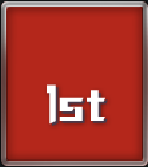
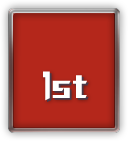
7-12/16:15

diff --git a/vueProject/static/css/main.css b/vueProject/static/css/main.css
@@ -40,7 +40,6 @@
   font-stretch: normal;
   letter-spacing: 0px;
   color: #ffffff;
-  opacity: 0.3;
 }
 
 .login {
@@ -49,7 +48,7 @@
   height: 30px;
   line-height: 6px;
   margin-top: 10px;
-  background: #0dbdbd;
+  background: #509a3c;
   border: 0;
   color: #fff;
 }
@@ -85,7 +84,6 @@
   background-color: #282c2f;
   -webkit-box-shadow: 0px 0px 8px 0px rgba(0, 0, 0, 0.8);
   box-shadow: 0px 0px 8px 0px rgba(0, 0, 0, 0.8);
-  opacity: 0.5;
   /* margin-left: 100px; */
   padding: 24px 23px;
 }
@@ -105,7 +103,6 @@
   background-color: #282c2f;
   -webkit-box-shadow: 0px 0px 8px 0px rgba(0, 0, 0, 0.8);
   box-shadow: 0px 0px 8px 0px rgba(0, 0, 0, 0.8);
-  opacity: 0.5;
 }
 
 .zhankuang span:first-child {
@@ -144,7 +141,7 @@
   /* bottom: 0; */
   /* left: 32%; */
   margin: 0 auto;
-  margin-top: 39px;
+  margin-top: 52px;
 
 }
 
@@ -203,7 +200,6 @@
   background-color: #282c2f;
   -webkit-box-shadow: 0px 0px 8px 0px rgba(0, 0, 0, 0.8);
   box-shadow: 0px 0px 8px 0px rgba(0, 0, 0, 0.8);
-  opacity: 0.5;
   box-sizing: border-box;
 }
 
@@ -221,7 +217,6 @@
   -webkit-box-shadow: 0px 0px 8px 0px rgba(0, 0, 0, 0.8);
   box-shadow: 0px 0px 8px 0px rgba(0, 0, 0, 0.8);
   border-radius: 5px;
-  opacity: 0.3;
   margin: 0 auto;
 }
 
@@ -235,7 +230,6 @@
   line-height: 40px;
   letter-spacing: 0px;
   color: #ffffff;
-  opacity: 0.5;
   margin-left: 10px;
 }
 
@@ -245,7 +239,6 @@
   height: 36px;
   background-color: #1c2023;
   border-radius: 5px;
-  opacity: 0.6;
 }
 
 .jiangchi span:first-child {
@@ -280,7 +273,6 @@
   height: 36px;
   background-color: #1c2023;
   border-radius: 5px;
-  opacity: 0.6;
   margin-left: 21px;
 }
 
@@ -333,16 +325,14 @@
   margin-left: 20%;
   letter-spacing: 0px;
   color: #ffffff;
-  opacity: 0.5;
 }
 
 .keyboard {
   float: left;
   width: 51%;
   height: 250px;
-  background-color: #1c2023;
+  background:url(../../src/assets/keyboard_bg.png);
   border-radius: 5px;
-  opacity: 0.6;
   margin-top: 10px;
 }
 
@@ -352,7 +342,6 @@
   width: 45px;
   height: 45px;
   /* background-color: #3ed6f4; */
-  opacity: 0.8;
 }
 
 .touzhuzuhe {
@@ -392,7 +381,6 @@
   height: 52px;
   background-color: #1c2023;
   border-radius: 4px;
-  opacity: 0.6;
   margin-top: 10px;
   /* margin-left: 28px; */
   text-align: center;
@@ -404,7 +392,6 @@
   height: 52px;
   background-color: #1c2023;
   border-radius: 5px;
-  opacity: 0.6;
   margin-top: 3%;
   text-align: center;
   color: #fff;
@@ -415,7 +402,6 @@
   height: 52px;
   background-color: #1c2023;
   border-radius: 5px;
-  opacity: 0.6;
   margin-top: 3%;
   /* margin-left: 28px; */
   text-align: center;
@@ -502,7 +488,6 @@
   height: 170px;
   background-color: #1c2023;
   border-radius: 5px;
-  opacity: 0.6;
   /* margin-left: 28px; */
   margin-top: 10px;
 }
@@ -558,7 +543,6 @@
   /* line-height: 72px; */
   letter-spacing: 0px;
   color: #ffffff;
-  opacity: 0.5;
   margin-left: 65%;
 }
 
@@ -730,7 +714,6 @@
   background-color: #282c2f;
   -webkit-box-shadow: 0px 0px 8px 0px rgba(0, 0, 0, 0.8);
   box-shadow: 0px 0px 8px 0px rgba(0, 0, 0, 0.8);
-  opacity: 0.5;
   /* margin-left: 100px; */
   margin-top: 23px;
   float: left;
@@ -747,7 +730,6 @@
   width: calc(60% - 10px);
   height: 340px;
   background-color: #2a2e31;
-  opacity: 0.2;
   float: left;
   margin-left: 10px;
   margin-top: 23px;

diff --git a/vueProject/src/components/main/index.vue b/vueProject/src/components/main/index.vue
@@ -4,7 +4,7 @@
       <img src="../../assets/logo_02.gif" />
       <div class="youxijieshao">游戏介绍</div>
       <!-- <span class="youxijieshao">游戏介绍</span> -->
-      <el-button class="login">登录</el-button>
+      <el-button class="login">scatter登录</el-button>
       <el-dropdown class="drop" @command="menuTab">
         <span class="el-dropdown-link">
           {{language}}

diff --git a/vueProject/index.html b/vueProject/index.html
@@ -3,7 +3,7 @@
   <head>
     <meta charset="utf-8">
     <meta name="viewport" content="width=device-width,initial-scale=1.0">
-    <title>vueproject</title>
+    <title>vue.js</title>
   </head>
   <body>
     <div id="app"></div>
